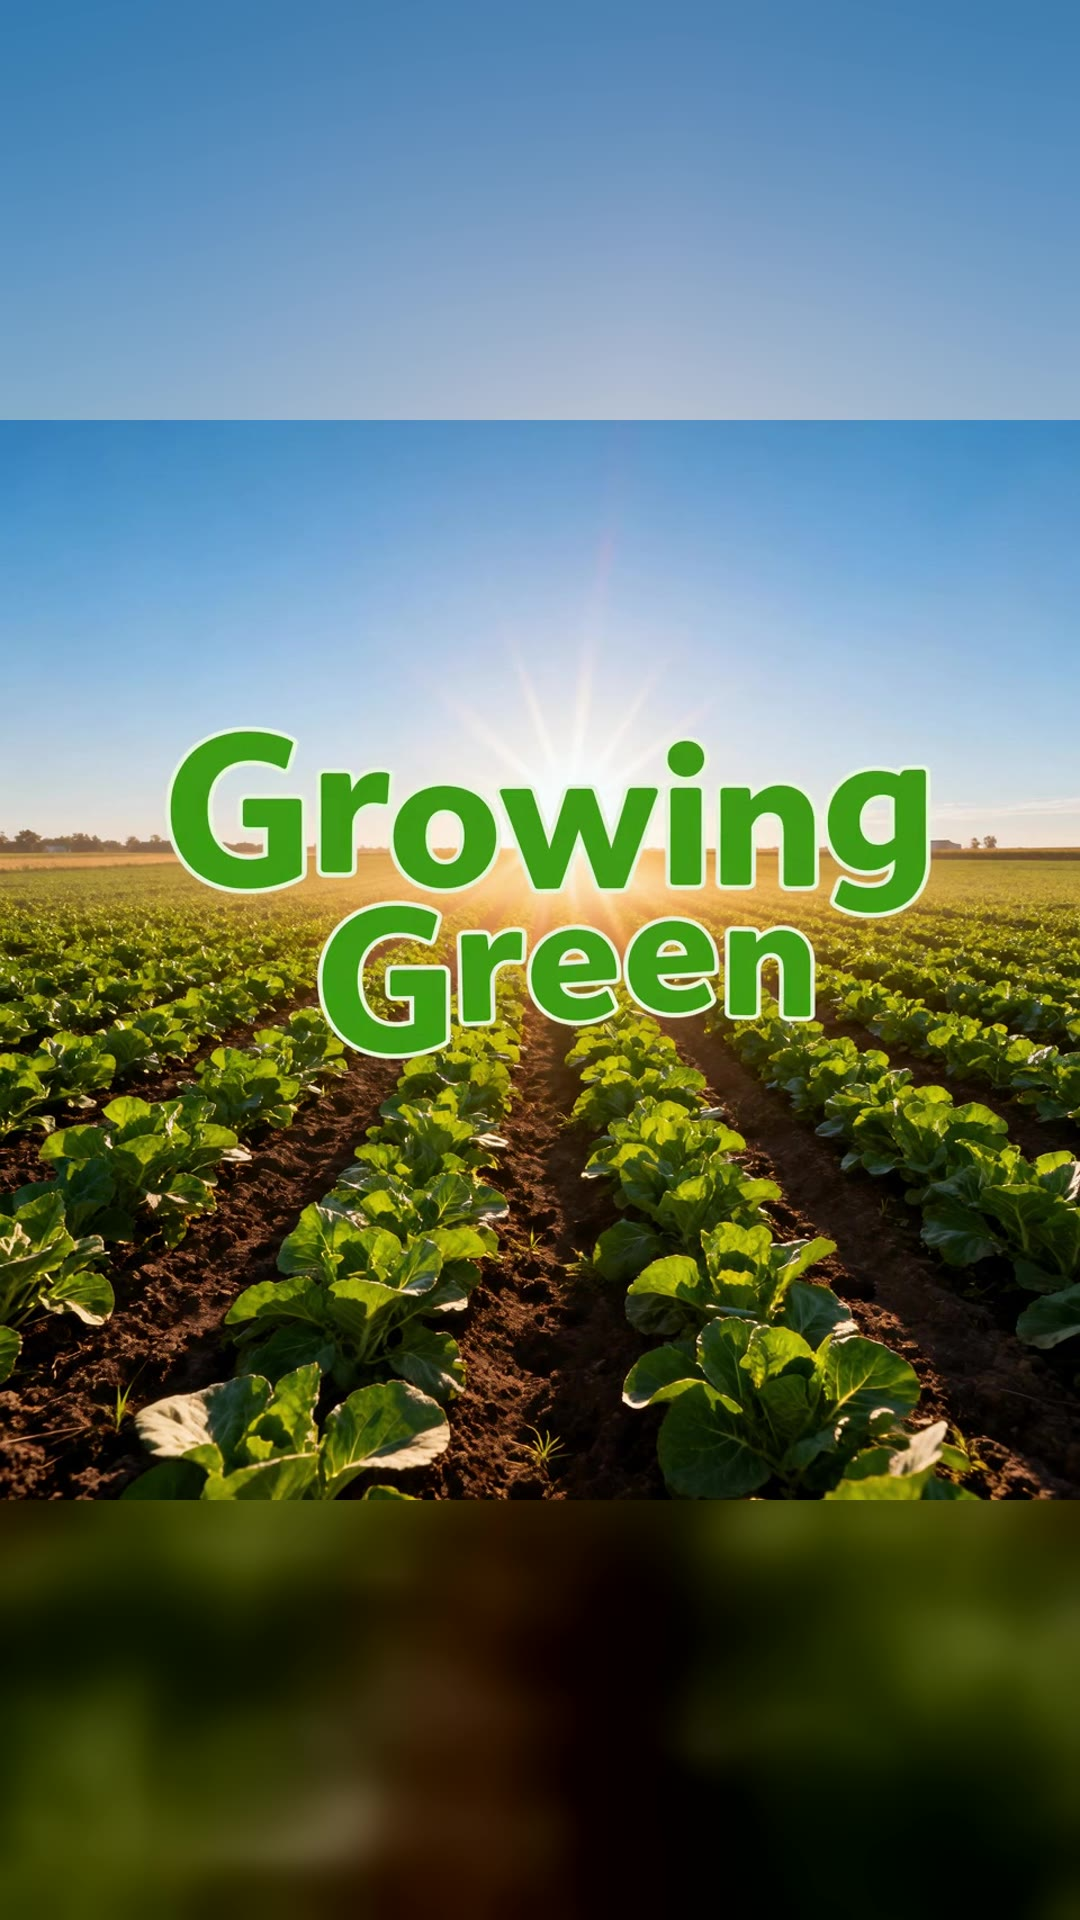
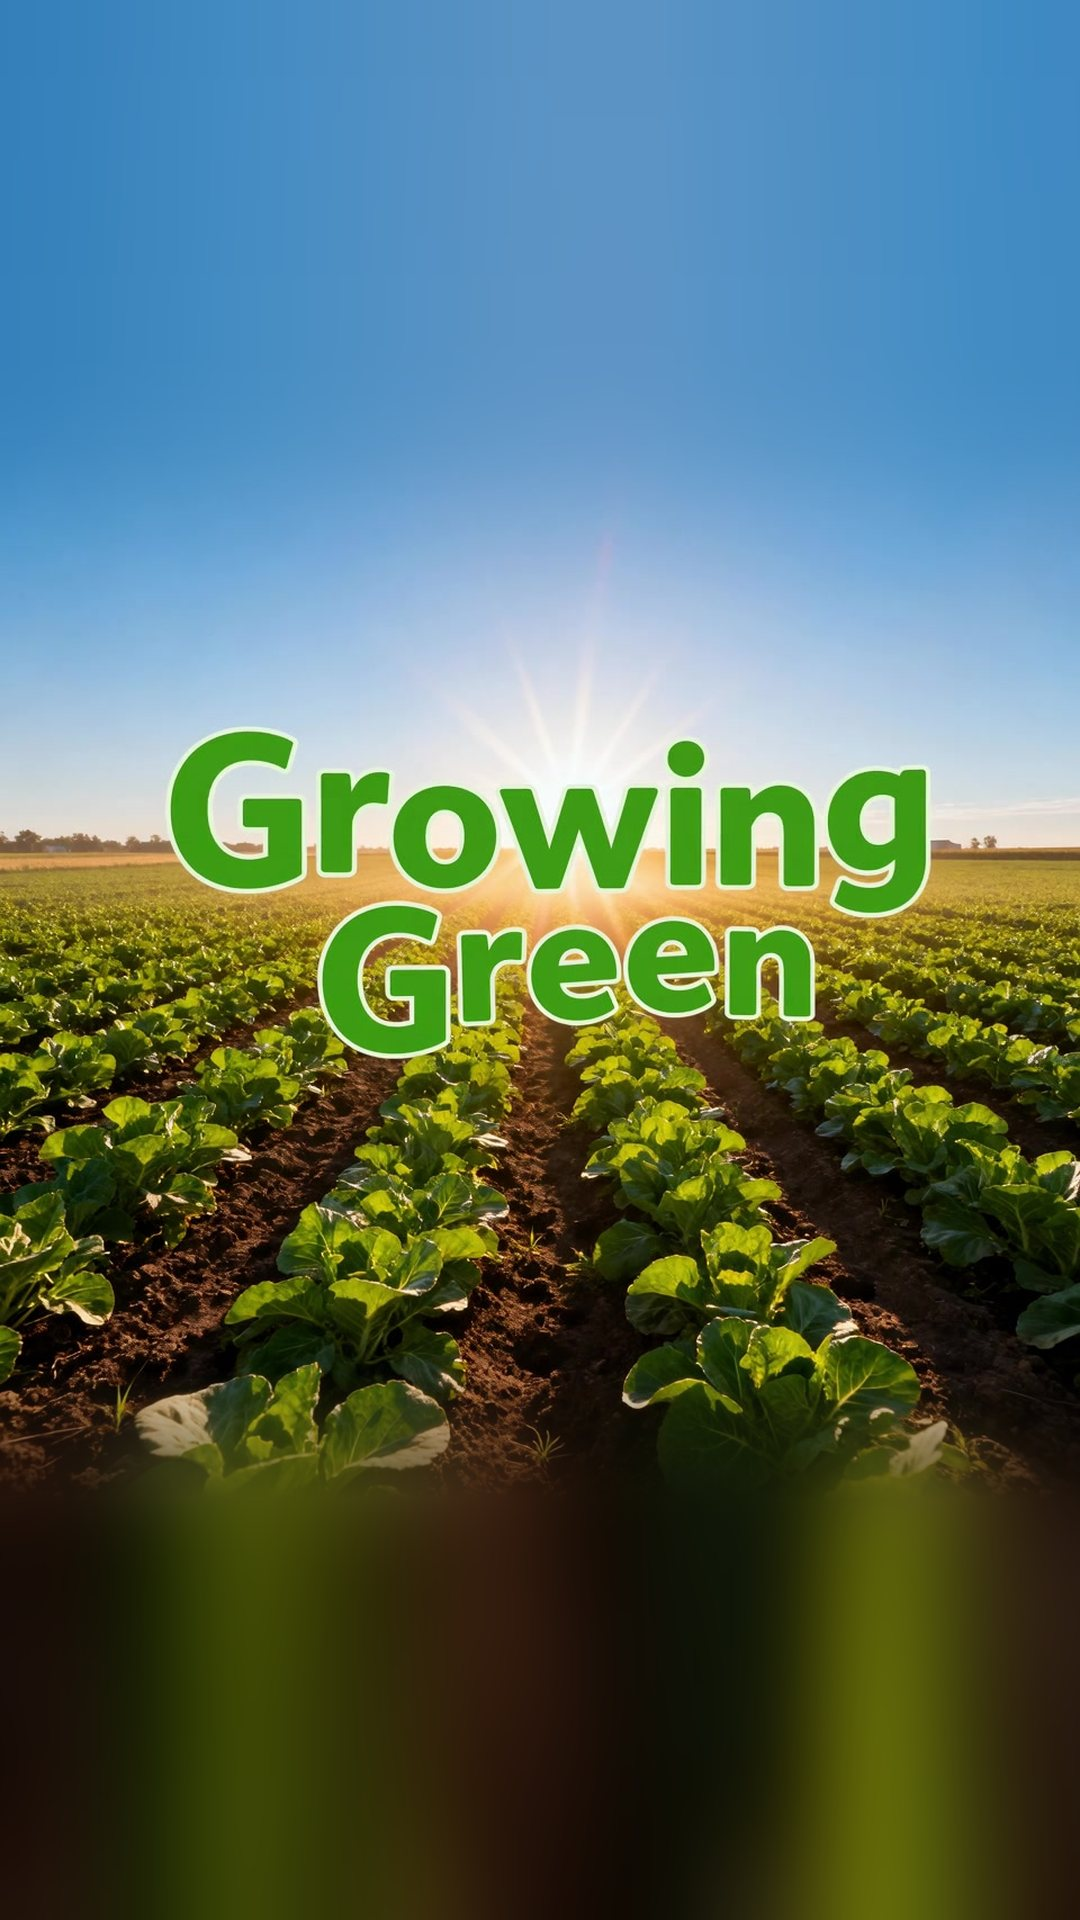
Intro plays on phones + seamless portrait plate
- Portrait phones no longer auto-skip the intro (founder decision
  2026-08-08, parity with manasoftworks.com). The square video letterboxes
  via object-fit: contain so the baked-in wordmark is never cover-cropped.
- Blocked autoplay (iPhone Low Power Mode etc.) now shows a Play/Skip
  card instead of silently bailing; stall/backstop timers are flag-guarded
  so they can't dismiss the overlay while the card is up.
- hero-freeze-portrait.jpg regenerated with edge-strip blur extension —
  the old plate glued a flat blue band above the photo with a hard seam.
- Reduced-motion and Save-Data users still skip straight to the
  freeze-frame.

diff --git a/index.html b/index.html
@@ -85,13 +85,24 @@
 
   <!-- Intro video overlay: plays once per visitor, muted, with Skip.
        Ends on the exact frame used as the site background, so the fade-out
-       is seamless. Auto-skipped for prefers-reduced-motion, Save-Data,
-       autoplay-blocked, or slow-loading situations. -->
+       is seamless. Plays on phones too (founder decision 2026-08-08 —
+       parity with manasoftworks.com), letterboxed on portrait so the
+       baked-in wordmark is never cover-cropped. Auto-skipped only for
+       prefers-reduced-motion and Save-Data; when a browser blocks muted
+       autoplay (e.g. iPhone Low Power Mode) a Play/Skip card appears
+       instead of silently bailing. -->
   <div id="gg-intro" hidden>
     <video id="gg-intro-video" muted playsinline preload="auto" poster="/assets/intro-poster.jpg" aria-hidden="true">
       <source src="/assets/intro.mp4" type="video/mp4">
     </video>
     <button id="gg-intro-skip" type="button">Skip intro ›</button>
+    <div id="gg-intro-start" hidden role="dialog" aria-label="Play the intro?">
+      <div class="gg-intro-start-card">
+        <p>Your browser paused the intro.</p>
+        <button id="gg-intro-play" type="button">Play intro ›</button>
+        <button id="gg-intro-start-skip" type="button">Skip to site</button>
+      </div>
+    </div>
   </div>
 
   <nav class="site-nav" aria-label="Main">
@@ -641,8 +652,11 @@
 
   <script>
     // Intro video: play once per visitor, then hand off to the identical
-    // freeze-frame background. Skipped automatically for reduced-motion,
-    // Save-Data, blocked autoplay, or a slow-loading video.
+    // freeze-frame background. Phones play it too (founder decision
+    // 2026-08-08); only reduced-motion and Save-Data skip outright. If the
+    // browser blocks muted autoplay (iPhone Low Power Mode, some data
+    // savers) we show a Play/Skip card instead of silently bailing —
+    // same pattern as manasoftworks.com.
     (function() {
       var KEY = 'gg_intro_seen_v1';
       var ov = document.getElementById('gg-intro');
@@ -650,16 +664,13 @@
       try {
         var conn = navigator.connection || {};
         var reduced = window.matchMedia && window.matchMedia('(prefers-reduced-motion: reduce)').matches;
-        // Portrait phones skip straight to the freeze-frame background:
-        // the square video would cover-crop the wordmark, and skipping
-        // saves ~2.7MB of mobile data. (Doesn't set the seen-flag, so a
-        // desktop visit still gets the intro.)
-        var portraitPhone = window.matchMedia && window.matchMedia('(orientation: portrait) and (max-width: 820px)').matches;
-        if (localStorage.getItem(KEY) || reduced || conn.saveData || portraitPhone) { ov.remove(); return; }
+        if (localStorage.getItem(KEY) || reduced || conn.saveData) { ov.remove(); return; }
       } catch (e) { ov.remove(); return; }
 
       var vid = document.getElementById('gg-intro-video');
+      var startCard = document.getElementById('gg-intro-start');
       var done = false;
+      var waitingOnTap = false;
       function finish() {
         if (done) return;
         done = true;
@@ -668,18 +679,44 @@
         ov.classList.add('gg-intro-out');
         setTimeout(function() { ov.remove(); }, 950);
       }
+      // Timers are flag-guarded rather than cancelled: while the Play/Skip
+      // card is up, stall/backstop timers from an earlier play attempt
+      // must not dismiss the overlay mid-choice.
+      function armTimers() {
+        // Not started within 3s -> don't hold the page hostage.
+        setTimeout(function() {
+          if (done || waitingOnTap) return;
+          if (vid.paused || vid.readyState < 2) finish();
+        }, 3000);
+        // Absolute backstop for a playing video.
+        setTimeout(function() {
+          if (done || waitingOnTap) return;
+          finish();
+        }, 14000);
+      }
+      function showStartCard() {
+        if (done) return;
+        waitingOnTap = true;
+        startCard.hidden = false;
+      }
 
       ov.hidden = false;
       document.documentElement.classList.add('gg-intro-lock');
       document.getElementById('gg-intro-skip').addEventListener('click', finish);
+      document.getElementById('gg-intro-start-skip').addEventListener('click', finish);
+      document.getElementById('gg-intro-play').addEventListener('click', function() {
+        waitingOnTap = false;
+        startCard.hidden = true;
+        var p2 = vid.play();
+        // Blocked even on a user gesture -> nothing more we can do.
+        if (p2 && p2.catch) { p2.catch(finish); }
+        armTimers();
+      });
       vid.addEventListener('ended', finish);
       vid.addEventListener('error', finish);
       var p = vid.play();
-      if (p && p.catch) { p.catch(finish); }
-      // If it hasn't actually started playing within 3s, don't hold the page hostage.
-      setTimeout(function() { if (vid.paused || vid.readyState < 2) finish(); }, 3000);
-      // Absolute backstop.
-      setTimeout(finish, 14000);
+      if (p && p.catch) { p.catch(showStartCard); }
+      armTimers();
     })();
   </script>
 

diff --git a/style.css b/style.css
@@ -1443,6 +1443,58 @@ html.gg-intro-lock body { overflow: hidden; }
 
 #gg-intro-skip:hover { background: rgba(0, 0, 0, 0.7); }
 
+/* Blocked-autoplay card (iPhone Low Power Mode etc.) — shown instead of
+   silently skipping the intro; see the intro script in index.html. */
+#gg-intro-start {
+  position: absolute;
+  inset: 0;
+  z-index: 1002;
+  display: flex;
+  align-items: center;
+  justify-content: center;
+  background: rgba(0, 0, 0, 0.35);
+}
+#gg-intro-start[hidden] { display: none; }
+.gg-intro-start-card {
+  background: rgba(8, 18, 8, 0.88);
+  border: 1px solid rgba(255, 255, 255, 0.28);
+  border-radius: 16px;
+  padding: 24px 28px;
+  text-align: center;
+  color: #fff;
+  max-width: 320px;
+  margin: 0 20px;
+}
+.gg-intro-start-card p { margin: 0 0 16px; font-size: 1em; }
+#gg-intro-play {
+  display: block;
+  width: 100%;
+  background: #2e7d32;
+  color: #fff;
+  border: none;
+  border-radius: 22px;
+  padding: 12px 20px;
+  font-family: inherit;
+  font-size: 1em;
+  font-weight: 700;
+  cursor: pointer;
+}
+#gg-intro-play:hover { background: #1b5e20; }
+#gg-intro-start-skip {
+  display: block;
+  width: 100%;
+  margin-top: 10px;
+  background: none;
+  color: rgba(255, 255, 255, 0.85);
+  border: 1px solid rgba(255, 255, 255, 0.4);
+  border-radius: 22px;
+  padding: 11px 20px;
+  font-family: inherit;
+  font-size: 0.95em;
+  cursor: pointer;
+}
+#gg-intro-start-skip:hover { background: rgba(255, 255, 255, 0.12); }
+
 /* Freeze-frame page background as a fixed layer (works on iOS, where
    background-attachment: fixed does not), plus a readability scrim. */
 body.gg-cinema { background-color: #0c1c0c; }
@@ -1719,12 +1771,16 @@ body.gg-cinema .section-divider {
    Cinematic responsive + motion preferences
    ========================================================= */
 /* Portrait phones: swap to a blur-extended portrait plate so the baked-in
-   wordmark isn't cover-cropped. The intro script also skips the video here
-   (instant load, no mobile-data spend) — see index.html. */
+   wordmark isn't cover-cropped, and letterbox the intro video (contain)
+   for the same reason. The intro PLAYS here since 2026-08-08 (founder
+   decision — parity with manasoftworks.com); the letterbox bars land on
+   the overlay's near-black background and read as cinematic. */
 @media (orientation: portrait) and (max-width: 820px) {
   body.gg-cinema::before {
     background-image: url('/assets/hero-freeze-portrait.jpg');
   }
+
+  #gg-intro video { object-fit: contain; }
 }
 
 @media (max-width: 768px) {
